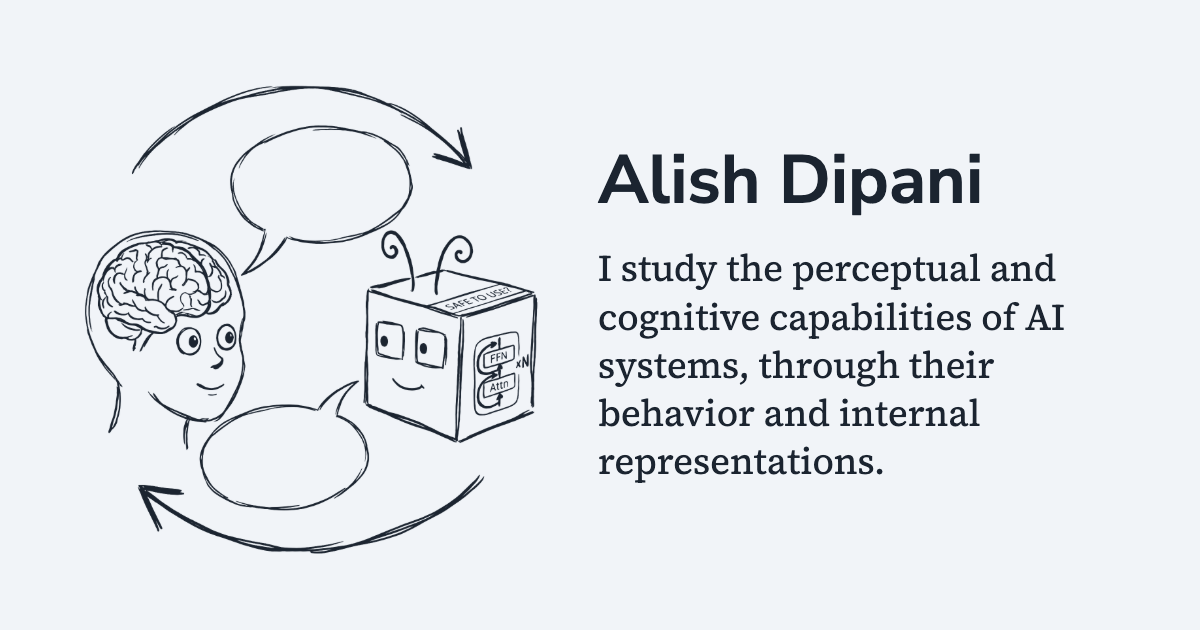
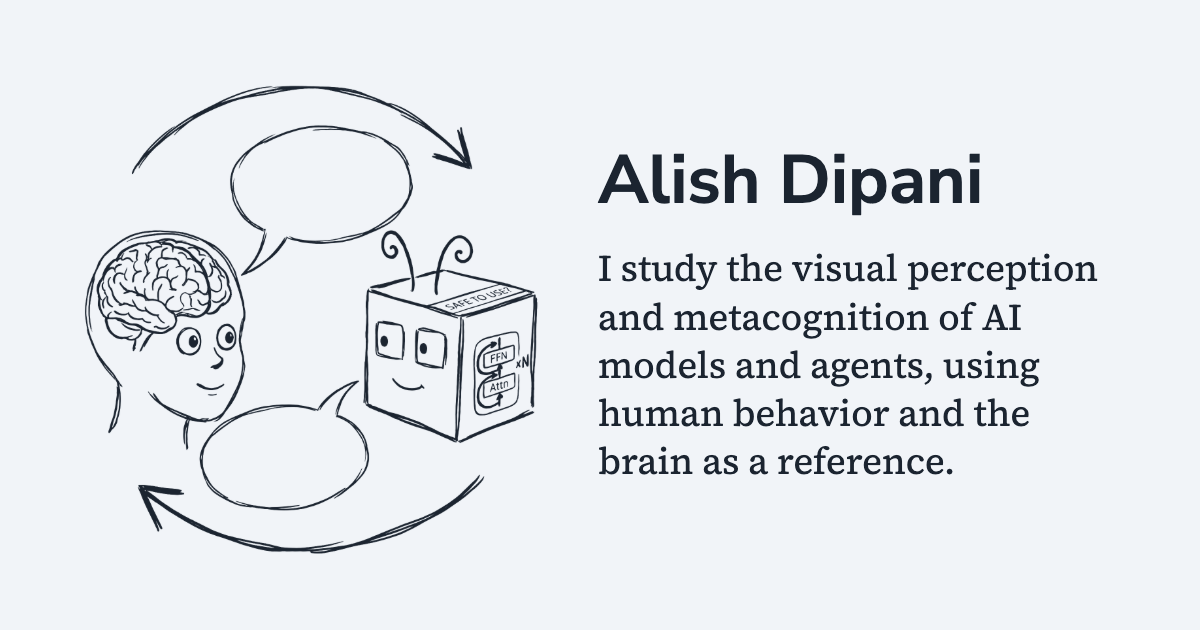
Home: new heading and research text, Georgia Tech email, updated blurb and site description
- Heading: "I study the visual perception and metacognition of AI models and agents,
  using human behavior and the brain as a reference." (link-preview image regenerated)
- New text for "Neuro & cognitive science for AI".
- Email is alishdipani@gatech.edu (Home contact row and the post ending link), from
  one value, SITE.email.
- Blurb: new wording for the past-research and Neuromatch/open-source sentences.
- Site description matches the new heading.

Changed region(s): [[0.4933, 0.3921, 0.925, 0.754]]

diff --git a/src/lib/site.ts b/src/lib/site.ts
@@ -2,10 +2,10 @@ import { getCollection } from 'astro:content';
 
 export const SITE = {
   name: 'Alish Dipani',
-  // Draft wording (Command Center, Oct 22 21:38); Alish still has to confirm it.
-  description: 'Alish Dipani is a NeuroAI PhD student at Georgia Tech studying the perceptual and cognitive capabilities of AI systems, and building AI models of the brain.',
+  // Matches the Home heading line (Alish, Oct 26).
+  description: 'Alish Dipani is a NeuroAI PhD student at Georgia Tech studying the visual perception and metacognition of AI models and agents, using human behavior and the brain as a reference.',
   homeTitle: 'Alish Dipani · NeuroAI PhD student at Georgia Tech',
-  email: 'alish.dipani@gmail.com',
+  email: 'alishdipani@gatech.edu',
   x: 'https://x.com/alishdipani',
   // Link preview (Open Graph) image for pages without an NGC image; made by tools/og/make.mjs.
   ogImage: '/images/og-default.png',
